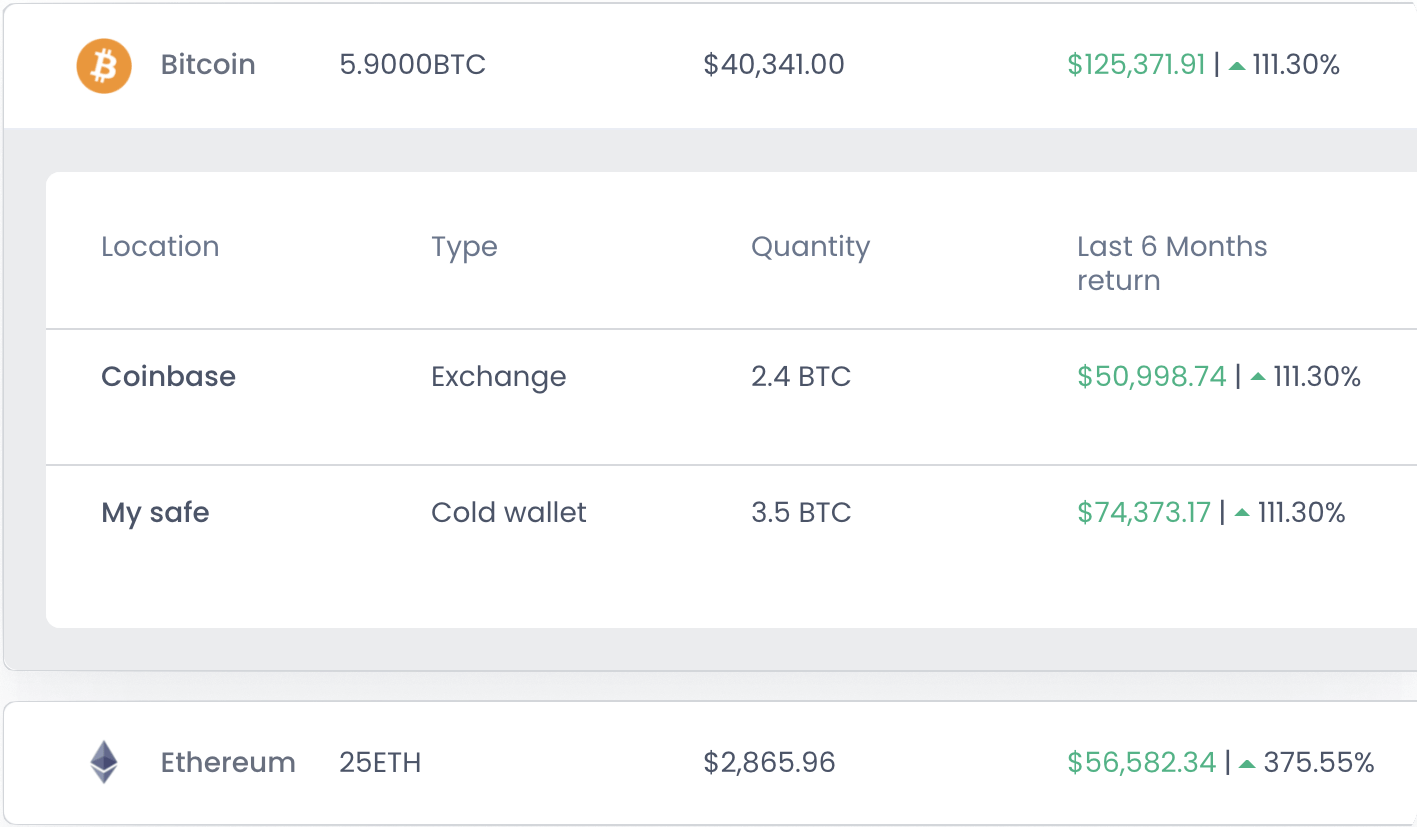
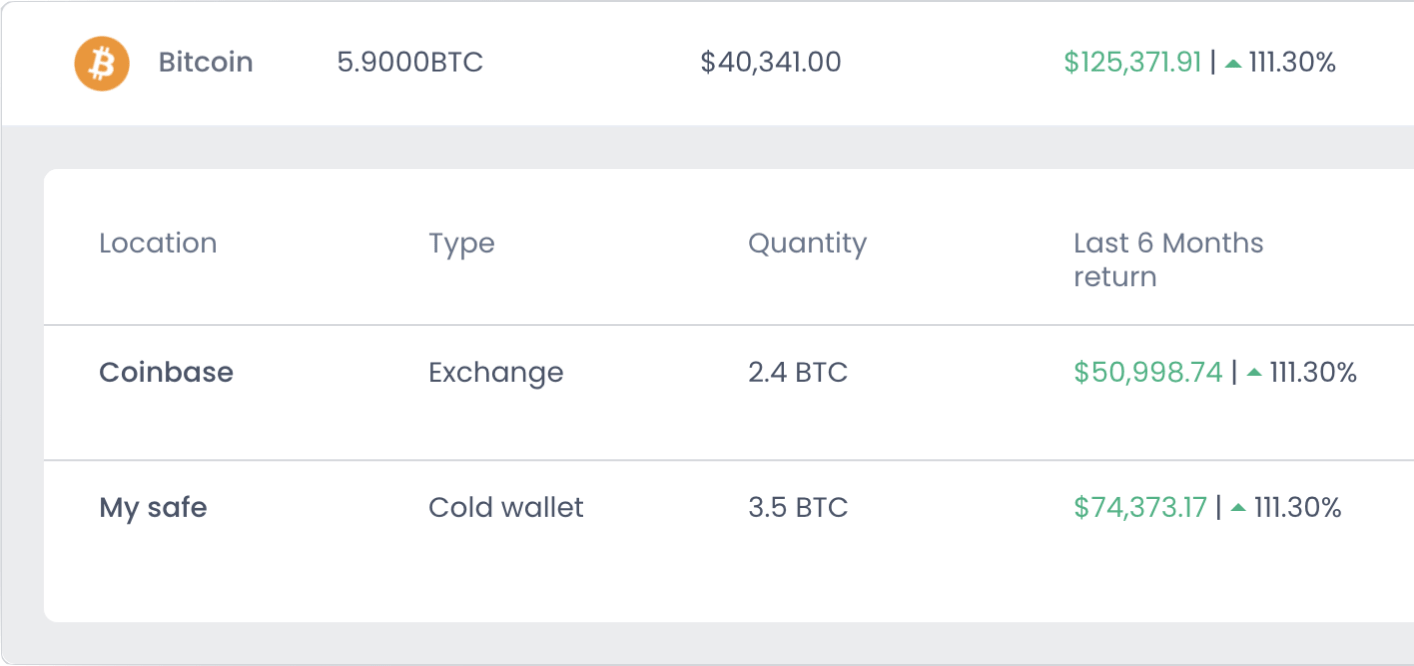
change image for the third section

diff --git a/themes/clearvalue/assets/scss/crypto-lp.scss b/themes/clearvalue/assets/scss/crypto-lp.scss
@@ -46,7 +46,7 @@
       img {
         width: 100%;
         max-width: 51.143rem;
-        border-radius: 10px;
+        border-radius: 5px 0 0 5px;
         box-shadow: 0px 108.622px 86.8976px rgba(42, 50, 87, 0.05), 0px 39.8261px 36.3037px rgba(42, 50, 87, 0.02), 0px 18.9939px 19.4097px rgba(42, 50, 87, 0.013), 0px 9.43317px 10.8809px rgba(42, 50, 87, 0.008), 0px 4.32611px 5.77878px rgba(42, 50, 87, 0.00663327), 0px 1.49625px 2.40468px rgba(42, 50, 87, 0.0041531);
       }
     }
@@ -69,8 +69,14 @@
 
 @media screen and (max-width: $fullhd) {
   .home {
-    .section.section-automate .section-info .block-image {
-      margin-right: 0;
+    .section.section-automate .section-info {
+      .block-image {
+        margin-right: 0;
+      }
+
+      .block-text {
+        margin-top: 0;
+      }
     }
   }
 }

diff --git a/themes/clearvalue/layouts/lp/crypto-tracking/single.html b/themes/clearvalue/layouts/lp/crypto-tracking/single.html
@@ -57,7 +57,7 @@
                     </div>
                 </div>
                 <div class="block-image">
-                    <img src="{{ .Params.section3Img }}"/>
+                    <img class="lazy-image" src="{{ .Params.section3ImgLazy }}" data-src="{{ .Params.section3Img }}"/>
                 </div>
             </div>
         </section>

diff --git a/content/lp/crypto-tracking.md b/content/lp/crypto-tracking.md
@@ -22,6 +22,7 @@ section2ImgLazy: /images/section-3-crypto-min.png
 section3Title: All In One
 section3Text: Aggregate the same coin at multiple locations to a single crypto portfolio to have a broader view of your entire portfolio. Seeing clearly your crypto diversification, your overall portfolio crypto returns and more.
 section3Img: /images/section-4-crypto.png
+section3ImgLazy: /images/section-4-crypto-min.png
 
 section4Title: Clear & Concise
 section4Text: At Claritus, we believe that you should have a clear, and understandable view of your assets and investments - without requiring a Master’s degree in Finance!
